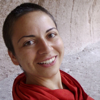
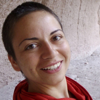
updated photos and people

diff --git a/flask_app/content/people.md b/flask_app/content/people.md
@@ -1,118 +1,6 @@
-### George Berry
-
-###### Sociology
-
-&grad&
-
-~berry.png~
-
-####Interests
-
-   Computational Sociology, Social Networks, Online Interaction, Social Norms
-
-~~~
-
-### [Chris Cameron](https://confluence.cornell.edu/display/~cjc73)
-
-###### Sociology
-
-&grad&
-
-~ChrisCameron.png~
-
-####Interests
-
-Social Networks, Economic Sociology, Social Simulation, Agent Based Modeling, Coordination, Cooperation, Collective Action
-
-~~~
-
-### [Scott Golder](http://www.redlog.net)
-
-###### Sociology
-
-&grad&
-
-~ScottGolder.jpeg~
-
-####Interests
-
-Social Networks, Quantitative Methods, Norms, Economic Sociology, Organizations, Information and Communication Technologies
-
-~~~
-
-### [Milena Tsvetkova](https://sites.google.com/site/milenavenelinova/)
-
-###### Sociology
-
-&grad&
-
-~MilenaTsvetkova.png~
-
-####Interests
-
-Social Networks, Complex Systems, Agent-Based Modeling, Organizations
-
-~~~
-
-### [Patrick Park](None)
-
-###### Sociology
-
-&grad&
-
-~PatrickPark.jpeg~
-
-####Interests
-
-Agent Based Modeling, Online Social Networks, Online Collective Action, Quantitative Methods
-
-~~~
-
-### [Yongren Shi](None)
-
-###### Sociology
-
-&grad&
-
-~shi_y.png~
-
-####Interests
-
-Intergroup Conflict and Norm Enforcement, Social Networks, Agent Based Modeling
-
-~~~
-
-### [Fedor Dokshin](None)
-
-###### Sociology
-
-&grad&
-
-~FedorDokshin.jpeg~
-
-####Interests
-
-Collective Action, Social Networks, Economic Sociology, Social Dilemnas, Cooperation, Trust
-
-~~~
-
-### [Noona Oh](None)
-
-###### Sociology
-
-&grad&
-
-~NoonaOh.jpeg~
-
-####Interests
-
-Social Networks, Online Communities, Social Psychology, Social Movements, Organizations
-
-~~~
-
 ### [Michael Macy](http://hsd.soc.cornell.edu/mwm/)
 
-###### Sociology and Information Science
+###### mwm14 &#8226; Sociology and Information Science
 
 &faculty&
 
@@ -121,3 +9,236 @@ Social Networks, Online Communities, Social Psychology, Social Movements, Organi
 ####Interests
 
 Game Theory, Networks, Social Psychology, Collective Action
+
+~~~
+
+### [Chris Cameron](https://confluence.cornell.edu/display/~cjc73) 
+
+&grad&
+
+~ChrisCameron.png~
+
+###### cjc73 &#8226; Sociology
+
+Economic Sociology, Social Simulation, Processes on Networks
+
+~~~
+
+### Patrick Park
+
+&grad&
+
+~PatrickPark.jpeg~
+
+###### pp262 &#8226; Sociology
+
+Agent Based Modeling, Online Social Networks, Online Collective Action, Quantitative Methods
+
+~~~
+
+### Yongren Shi
+
+&grad&
+
+~shi_y.png~
+
+
+Intergroup Conflict and Norm Enforcement, Social Networks, Agent Based Modeling
+
+~~~
+
+### [Scott Golder](http://www.redlog.net)
+
+&grad&
+
+~ScottGolder.png~
+
+###### ys334 &#8226; Sociology
+
+Social Networks, Quantitative Methods, Norms, Economic Sociology, Organizations, Information and Communication Technologies
+
+~~~
+
+### Daniel DellaPosta
+
+&grad&
+
+~della_posta_d.png~
+
+###### djd264 &#8226; Sociology
+ 
+Economic Sociology; Social Networks; Collective Behavior: Opinions, Attitudes, and Social Influence
+
+~~~
+
+### Wei Dong
+
+&grad&
+
+###### wd96 &#8226; Information Science
+
+Cross-cultural comparison on social network structures, mental representation of social relations and social networks
+
+~~~
+
+### Isabel Kloumann
+
+&grad&
+
+~isabel_kloumann.png~
+
+###### imk36 &#8226; Applied Mathematics
+
+~~~
+
+### Fedor Dokshin
+
+&grad&
+
+~FedorDokshin.jpeg~
+
+###### fad7 &#8226; Sociology
+
+Social Networks, Computational Methods, Political Sociology, Organizations, Environmental Sociology
+
+~~~
+
+### George Berry
+
+&grad&
+
+~berry.png~
+
+###### geb97 &#8226; Sociology
+
+Computational Sociology, Social Networks, Online Interaction, Social Norms
+
+~~~
+
+### Antonio Sirianni
+
+&grad&
+
+~sirianni_a.png~
+
+###### ads334 &#8226; Sociology
+
+Social Networks, Social Psychology, Computational and Quantitative Methods
+
+~~~
+
+###  Tom Davidson
+
+&grad&
+
+~TDavidson.png~
+
+###### trd54 &#8226; Sociology
+
+Social Network Analysis, Online Social Networks, Sociology of Culture, Political Sociology
+
+~~~
+
+### Mario Molina
+
+&grad&
+
+###### mm2535 &#8226; Sociology
+
+Social Norms, Economic Sociology, Networks, Social Institutions, Experiments
+
+~~~
+
+### Dana Warmsley
+
+&grad&
+
+~warmsley_dana.png~
+
+###### dw457 &#8226; Applied Mathematics
+
+~~~
+
+### Danielle Toupo
+
+&grad&
+
+~toupo.png~
+
+###### dw457 &#8226; Applied Mathematics
+
+Complex systems and nonlinear dynamics, game theory, evolution of cooperation
+
+~~~
+
+### Fernando Plascencia
+
+&grad&
+
+##### jp975 &#8226; Department of City and Regional Planning
+
+Social Networks, Games on Networks, Behavioral Economics
+
+~~~
+
+### [Milena Tsvetkova](https://sites.google.com/site/milenavenelinova/)
+
+&former&
+
+~MilenaTsvetkova.png~
+
+###### Sociology
+
+Social Networks, Complex Systems, Agent-Based Modeling, Organizations
+
+~~~
+
+### Vladimir Barash
+
+&former&
+
+~VladimirBarash.png~
+
+###### Information Science
+
+Diffusion, Online Communities, Large-Scale Data Analysis, Network Models, Agent-Based Modeling, Web Data
+
+~~~
+### Matthew Hoffberg
+
+&former&
+
+~hoffberg_m.png~
+
+###### Sociology
+
+Social Psychology, Altruism, Reciprocity, Economic Sociology, Organizations
+
+~~~
+
+### Shaomei Wu 
+
+&former&
+
+~ShaomeiWu.png~
+
+###### Information Science
+
+Large Scale Networks, Information Diffusion, Network Algorithms, Language Technologies, Clustering, Social Media
+
+~~~
+
+### Michael Genkin
+
+&former&
+
+~MichaelGenkin.jpeg~
+
+###### Sociology
+
+Collective Action, Game Theory, Network Dynamics, Social Psychology, Blau-Space Modeling, Queuing Theory
+
+~~~
+
+
+
